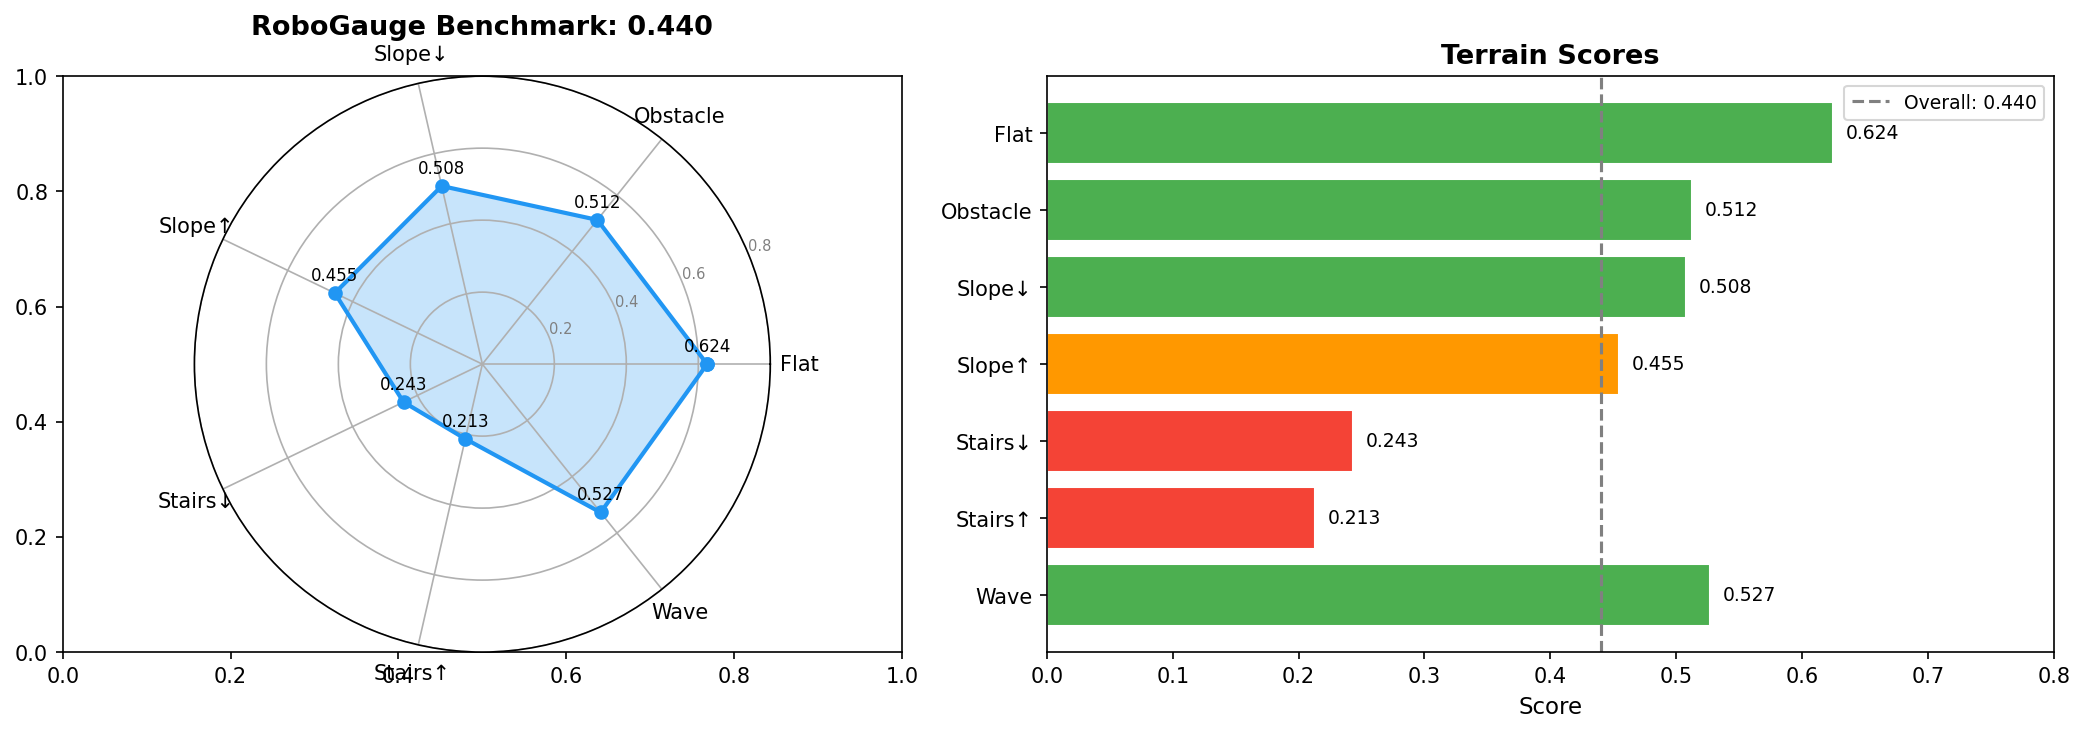
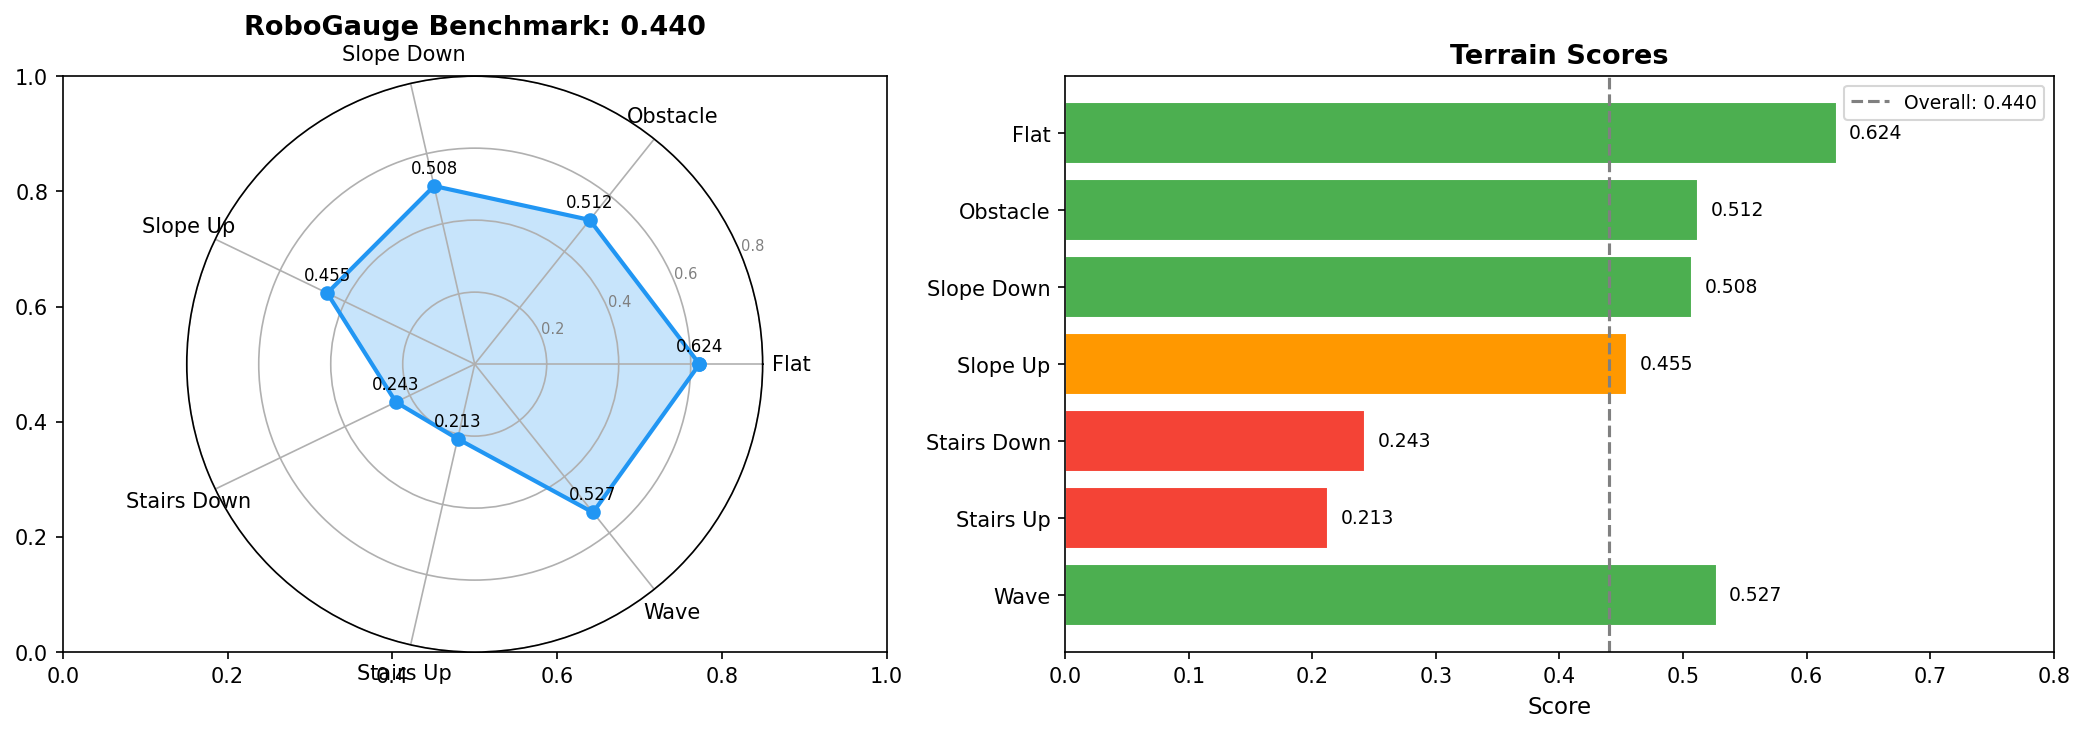
update test result

diff --git a/RoboGauge/plot_results.py b/RoboGauge/plot_results.py
@@ -7,7 +7,7 @@ RoboGauge Stress Benchmark 结果可视化
 import yaml
 import numpy as np
 import matplotlib
-matplotlib.use('TkAgg')
+matplotlib.use('Agg')
 import matplotlib.pyplot as plt
 from pathlib import Path
 import matplotlib.ticker as mticker
@@ -21,7 +21,7 @@ with open(RESULT_FILE, 'r') as f:
 # ============================================================
 # 图 1: Radar + Bar —— 7 地形对比
 # ============================================================
-terrain_names = ['Flat', 'Obstacle', 'Slope↓', 'Slope↑', 'Stairs↓', 'Stairs↑', 'Wave']
+terrain_names = ['Flat', 'Obstacle', 'Slope Down', 'Slope Up', 'Stairs Down', 'Stairs Up', 'Wave']
 terrain_keys = ['flat', 'obstacle', 'slope_bd', 'slope_fd', 'stairs_bd', 'stairs_fd', 'wave']
 
 scores = [data['scores'][k] for k in terrain_keys]
@@ -148,7 +148,7 @@ for ax_i, (tkey, ttitle) in enumerate(zip(fric_terrains, fric_titles)):
     ax.set_yticks([0, 2, 4, 6, 8, 10])
     ax.grid(True, alpha=0.3)
 
-fig.suptitle(f'Max Terrain Level vs Friction — go2_moe_cts @ iter 5500\n(Benchmark Score: {benchmark:.3f})',
+fig.suptitle(f'Max Terrain Level vs Friction -- go2_moe_cts @ iter 5500\n(Benchmark Score: {benchmark:.3f})',
              fontsize=14, fontweight='bold', y=1.01)
 plt.tight_layout()
 plt.savefig(Path(__file__).parent / 'benchmark_friction_levels.png', dpi=150, bbox_inches='tight')
@@ -159,4 +159,4 @@ print(f"\nCharts saved:")
 print(f"  {Path(__file__).parent / 'benchmark_terrain_scores.png'}")
 print(f"  {Path(__file__).parent / 'benchmark_metrics_summary.png'}")
 print(f"  {Path(__file__).parent / 'benchmark_friction_levels.png'}")
-plt.show()
+plt.close('all')

diff --git a/RoboGauge/RoboGauge_训练测试记录.md b/RoboGauge/RoboGauge_训练测试记录.md
@@ -315,6 +315,8 @@ python robogauge/scripts/run.py \
 | **stairs_bd** (下楼梯) | 0.243 | 弱，最高 Level 4 |
 | **stairs_fd** (上楼梯) | 0.213 | 最弱，最高 Level 4 |
 
+![七地形雷达图 + 柱状图](benchmark_terrain_scores.png)
+
 ### 6.3 摩擦 vs 最高难度
 
 ```
@@ -328,6 +330,8 @@ obstacle            X    6    8    7    8    7    8    6    6
 ```
 
 规律：所有地形随摩擦增大难度级别升高（符合预期），楼梯仍是瓶颈。
+
+![摩擦 vs 最高难度级别](benchmark_friction_levels.png)
 
 ### 6.4 八项指标汇总（全地形平均）
 
@@ -343,6 +347,8 @@ obstacle            X    6    8    7    8    7    8    6    6
 | zmp_margin | 0.572 | 0.546 |
 
 Mean@50（最差 50% 命令的均值）在各指标上都低于全局均值，说明挑战性命令（急停、对角线速度等）确实暴露了策略的不足。角度跟踪误差 (ang_vel_err) 的差距最大（0.469 vs 0.408），说明急速转向是当前策略的短板。
+
+![八项指标汇总](benchmark_metrics_summary.png)
 
 ### 6.5 结论
 
